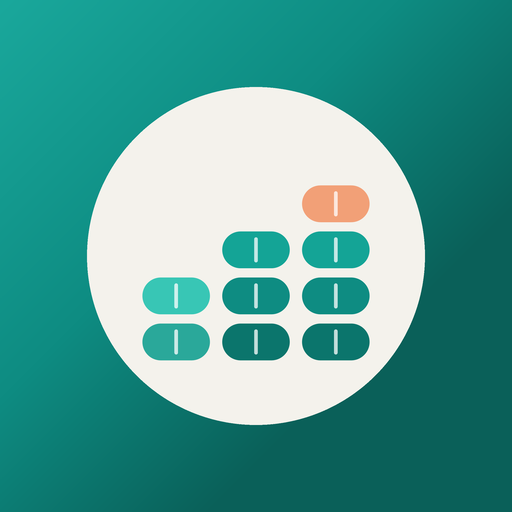
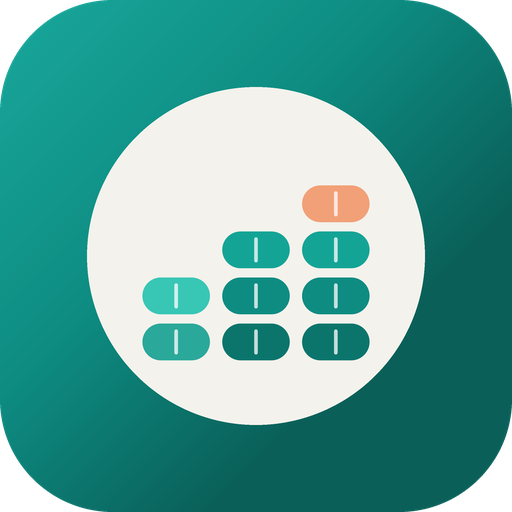
v3.9.2: เอามุมโค้งกลับมา แก้บัคมุมดำที่ต้นเหตุจริง
v3.9.1 แก้มุมดำด้วยการตัดมุมโค้งออกทั้งหมด แต่ผู้ใช้แจ้งว่ามุมเหลี่ยมดูไม่สวย
จุดบกพร่องจริงๆ ไม่ใช่การมนมุม แต่คือขั้นตอนบันทึกไฟล์ที่แปลงภาพเป็น RGB
ทิ้งช่อง alpha ไปดื้อๆ (มุมโปร่งใสเลยกลายเป็นดำ) — รอบนี้แก้ที่ต้นเหตุจริง

- icon-192.png / icon-512.png: เก็บมุมโค้งไว้ บันทึกเป็น PNG แบบมี alpha
  โปร่งใสจริง (ไม่แปลงเป็น RGB) — Android/Chrome PWA รองรับพื้นหลังโปร่งใส
  อยู่แล้ว ไม่มีมุมดำ/มุมเหลี่ยมอีก
- apple-touch-icon.png: เก็บมุมโค้งไว้เหมือนกัน แต่ iOS ไม่รองรับ alpha
  สำหรับไอคอนหน้าโฮม (เติมดำให้เองถ้าเจอ) จึงผสมพื้นหลังสีขาวเข้าไปจริงก่อน
  บันทึก แทนการตัด alpha ทิ้งเฉยๆ
- icon-maskable-192/512 ไม่กระทบ (ไม่เคยมนมุมเองอยู่แล้ว)

ตรวจสอบแล้ว: tsc -b ผ่าน, npm test 80/80 ผ่าน, npm run build สำเร็จ, ตรวจ
พิกเซลมุมทั้ง 3 ไฟล์แล้วไม่มีสีดำหลงเหลือ

Claude-Session: https://claude.ai/code/session_017ScEEJXyYsYTMjkuNbqpj1

diff --git a/CHANGELOG.md b/CHANGELOG.md
@@ -7,6 +7,24 @@
 > และไม่มีเครื่องมือสำหรับสร้าง GitHub Release ในชุดเครื่องมือที่ใช้งานได้ จึงใช้ไฟล์นี้ + `VERSION`
 > เป็นแหล่งความจริงของเลขเวอร์ชันแทน จนกว่าจะแก้ข้อจำกัดนั้นได้
 
+## [3.9.2] - 2026-09-08
+
+### Fixed
+- **เอามุมโค้งกลับมา แก้ให้ถูกจุดจริงๆ** — v3.9.1 แก้มุมดำด้วยการตัดมุมโค้งออกทั้งหมด (สี่เหลี่ยม
+  เต็มพื้นที่) แต่ผู้ใช้แจ้งว่ามุมเหลี่ยมดูไม่สวย จุดบกพร่องจริงๆ ไม่ใช่ "การมนมุม" แต่คือขั้นตอน
+  บันทึกไฟล์ที่แปลงภาพเป็น RGB ทิ้งช่อง alpha ไปดื้อๆ (มุมโปร่งใสเลยกลายเป็นดำ) — รอบนี้แก้ที่
+  ต้นเหตุจริงแทน:
+  - **icon-192.png / icon-512.png** — เก็บมุมโค้งไว้ และบันทึกเป็น PNG แบบมี alpha โปร่งใสจริง
+    (ไม่แปลงเป็น RGB อีกต่อไป) ทุกแพลตฟอร์มที่ใช้ไอคอนพวกนี้ (Android/Chrome PWA) รองรับพื้นหลัง
+    โปร่งใสอยู่แล้ว จึงไม่มีมุมดำหรือมุมเหลี่ยมให้เห็นอีก
+  - **apple-touch-icon.png** — เก็บมุมโค้งไว้เหมือนกัน แต่ iOS ไม่รองรับพื้นหลังโปร่งใสสำหรับไอคอน
+    หน้าโฮม (เติมดำให้เองถ้าเจอ alpha) จึงผสมพื้นหลังสีขาวเข้าไปจริงก่อนบันทึก แทนการตัด alpha
+    ทิ้งเฉยๆ แบบที่เคยทำให้เกิดบัคมุมดำในรอบก่อน
+  - icon-maskable-192/512 ไม่กระทบ (ไม่เคยมนมุมเองอยู่แล้ว ให้ระบบตัดขอบเองตามปกติของ adaptive icon)
+
+ตรวจสอบแล้ว: tsc -b ผ่าน, npm test 80/80 ผ่าน, npm run build สำเร็จ, ตรวจพิกเซลมุมของทั้ง 3 ไฟล์
+แล้วว่าไม่มีสีดำหลงเหลือ (icon-192/512 โปร่งใสจริง, apple-touch-icon ขาวจริง)
+
 ## [3.9.1] - 2026-09-08
 
 ### Fixed
